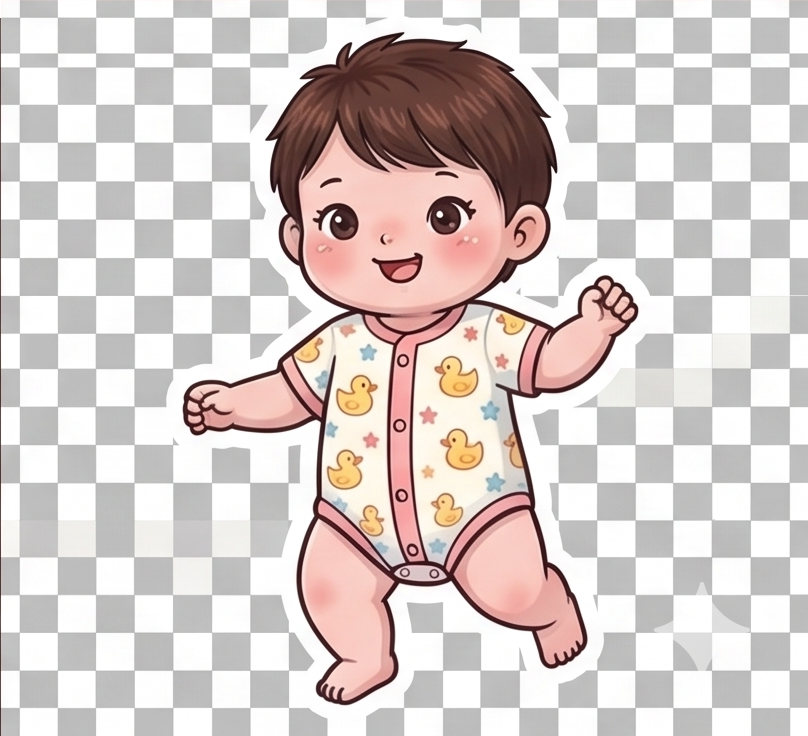
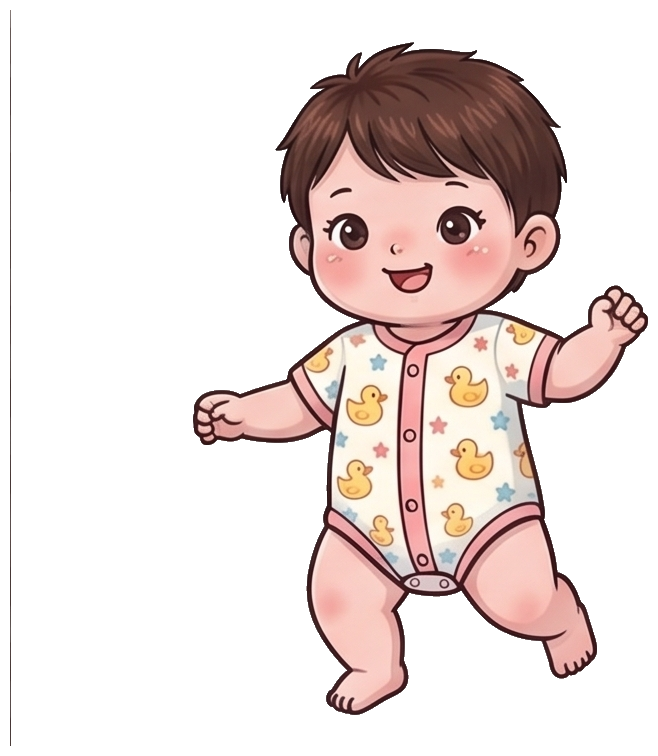
Fix all 6 new illustrations: full heads, clean transparent backgrounds

diff --git a/scripts/cut-illustrations.py b/scripts/cut-illustrations.py
@@ -1,84 +1,116 @@
 #!/usr/bin/env python3
 """Cut the 3x2 illustration grid into 6 individual transparent PNGs."""
-from PIL import Image
+from PIL import Image, ImageOps
 import numpy as np
+from collections import deque
+from scipy.ndimage import label
 import os
 
 src = "public/illustrations/additional adelina illos.png"
 out_dir = "public/illustrations"
 
-# Grid line centers: vertical x≈831, 1664 | horizontal y≈980
-# Title "Her Activities and Outfits" occupies y=100–299; start top row below it
 VCENTER1, VCENTER2 = 831, 1664
 HCENTER1 = 980
-TITLE_BOTTOM = 310  # start top-row cells below the title
-
 PAD = 6
+
+# Top-row cells start at y=0 so full heads are included
 cells = {
-    # name: (x1, y1, x2, y2)
-    "snacking":      (PAD,            TITLE_BOTTOM,   VCENTER1 - PAD, HCENTER1 - PAD),
-    "rocking-llama": (VCENTER1 + PAD, TITLE_BOTTOM,   VCENTER2 - PAD, HCENTER1 - PAD),
-    "play-gym":      (VCENTER2 + PAD, TITLE_BOTTOM,   2484 - PAD,     HCENTER1 - PAD),
+    "snacking":      (PAD,            0,              VCENTER1 - PAD, HCENTER1 - PAD),
+    "rocking-llama": (VCENTER1 + PAD, 0,              VCENTER2 - PAD, HCENTER1 - PAD),
+    "play-gym":      (VCENTER2 + PAD, 0,              2484 - PAD,     HCENTER1 - PAD),
     "sunglasses":    (PAD,            HCENTER1 + PAD, VCENTER1 - PAD, 1728 - PAD),
     "sun-hat":       (VCENTER1 + PAD, HCENTER1 + PAD, VCENTER2 - PAD, 1728 - PAD),
     "walking":       (VCENTER2 + PAD, HCENTER1 + PAD, 2484 - PAD,     1728 - PAD),
 }
 
-img = Image.open(src).convert("RGBA")
+# Which cells contain the title text in their top region
+TOP_ROW = {"snacking", "rocking-llama", "play-gym"}
 
-def remove_bg(cell_img: Image.Image, tolerance: int = 25) -> Image.Image:
-    """Flood-fill from corners to remove light/white background."""
-    data = cell_img.load()
-    w, h = cell_img.size
+def remove_bg_padded(cell_img: Image.Image, tolerance: int = 30) -> Image.Image:
+    """Pad image, flood-fill bg from all edges (catches white + near-neutral grey), remove pad."""
+    BORDER = 30
+    padded = ImageOps.expand(cell_img, border=BORDER, fill=(255, 255, 255, 255))
+    data = padded.load()
+    w, h = padded.size
 
-    # Sample bg colour from corners
-    corners = [data[0,0], data[w-1,0], data[0,h-1], data[w-1,h-1]]
-    visible = [c for c in corners if c[3] > 10]
-    if not visible:
-        return cell_img  # already transparent
-    bg = max(set(visible), key=visible.count)
-    bg_r, bg_g, bg_b = bg[0], bg[1], bg[2]
-
-    from collections import deque
     visited = [[False]*h for _ in range(w)]
-    queue = deque([(0,0),(w-1,0),(0,h-1),(w-1,h-1)])
-    for sx, sy in [(0,0),(w-1,0),(0,h-1),(w-1,h-1)]:
-        visited[sx][sy] = True
+    queue = deque()
+    for x in range(w):
+        for sy in [0, h-1]:
+            if not visited[x][sy]: visited[x][sy] = True; queue.append((x, sy))
+    for y in range(h):
+        for sx in [0, w-1]:
+            if not visited[sx][y]: visited[sx][y] = True; queue.append((sx, y))
 
     while queue:
         x, y = queue.popleft()
         r, g, b, a = data[x, y]
-        if a < 10 or (abs(r-bg_r) <= tolerance and abs(g-bg_g) <= tolerance and abs(b-bg_b) <= tolerance):
+        is_bg = (
+            a < 10 or
+            # near-neutral grey or white (background colours in these illustrations)
+            (r > 150 and g > 150 and b > 150 and
+             abs(int(r)-int(g)) < 35 and abs(int(g)-int(b)) < 35)
+        )
+        if is_bg:
             data[x, y] = (r, g, b, 0)
             for nx, ny in [(x-1,y),(x+1,y),(x,y-1),(x,y+1)]:
                 if 0 <= nx < w and 0 <= ny < h and not visited[nx][ny]:
-                    visited[nx][ny] = True
-                    queue.append((nx, ny))
-    return cell_img
+                    visited[nx][ny] = True; queue.append((nx, ny))
+    return padded
 
-def tight_crop(cell_img: Image.Image) -> Image.Image:
-    """Crop to bounding box of non-transparent pixels."""
+def remove_title_islands(cell_img: Image.Image, title_zone_rows: int = 320) -> Image.Image:
+    """
+    Remove opaque pixel clusters in the top title_zone_rows that are NOT connected
+    to the main illustration body (pixels below title_zone_rows).
+    Works regardless of colour — safe for hair, hats, etc.
+    """
     arr = np.array(cell_img)
+    h, w = arr.shape[:2]
+    opaque = arr[:,:,3] > 10
+
+    # Label all connected components
+    structure = np.ones((3,3), dtype=int)  # 8-connectivity
+    labeled, num_features = label(opaque, structure=structure)
+
+    # Find which component labels touch below the title zone
+    if title_zone_rows >= h:
+        return cell_img  # nothing below title zone
+    main_labels = set(np.unique(labeled[title_zone_rows:, :])) - {0}
+
+    # Zero out any component entirely within the title zone (not in main_labels)
+    result = arr.copy()
+    for comp_label in np.unique(labeled[:title_zone_rows, :]):
+        if comp_label == 0:
+            continue
+        if comp_label not in main_labels:
+            result[labeled == comp_label, 3] = 0  # make transparent
+
+    return Image.fromarray(result)
+
+def tight_crop(img: Image.Image) -> Image.Image:
+    arr = np.array(img)
     alpha = arr[:,:,3]
     rows = np.any(alpha > 10, axis=1)
     cols = np.any(alpha > 10, axis=0)
     if not rows.any():
-        return cell_img
+        return img
     rmin, rmax = np.where(rows)[0][[0,-1]]
     cmin, cmax = np.where(cols)[0][[0,-1]]
-    margin = 10
-    rmin = max(0, rmin - margin)
-    rmax = min(cell_img.height - 1, rmax + margin)
-    cmin = max(0, cmin - margin)
-    cmax = min(cell_img.width - 1, cmax + margin)
-    return cell_img.crop((cmin, rmin, cmax+1, rmax+1))
+    m = 10
+    rmin = max(0, rmin-m); rmax = min(img.height-1, rmax+m)
+    cmin = max(0, cmin-m); cmax = min(img.width-1, cmax+m)
+    return img.crop((cmin, rmin, cmax+1, rmax+1))
+
+img = Image.open(src).convert("RGBA")
 
 for name, (x1, y1, x2, y2) in cells.items():
     cell = img.crop((x1, y1, x2, y2))
-    cell = remove_bg(cell)
+    cell = remove_bg_padded(cell)
+    if name in TOP_ROW:
+        cell = remove_title_islands(cell, title_zone_rows=320)
     cell = tight_crop(cell)
     out_path = os.path.join(out_dir, f"adelina-{name}.png")
     cell.save(out_path)
-    print(f"  ✓ {name}  ({cell.size[0]}x{cell.size[1]}px)  → {out_path}")
+    print(f"  ✓ {name}  ({cell.size[0]}x{cell.size[1]}px)")
 
 print("\nDone.")
